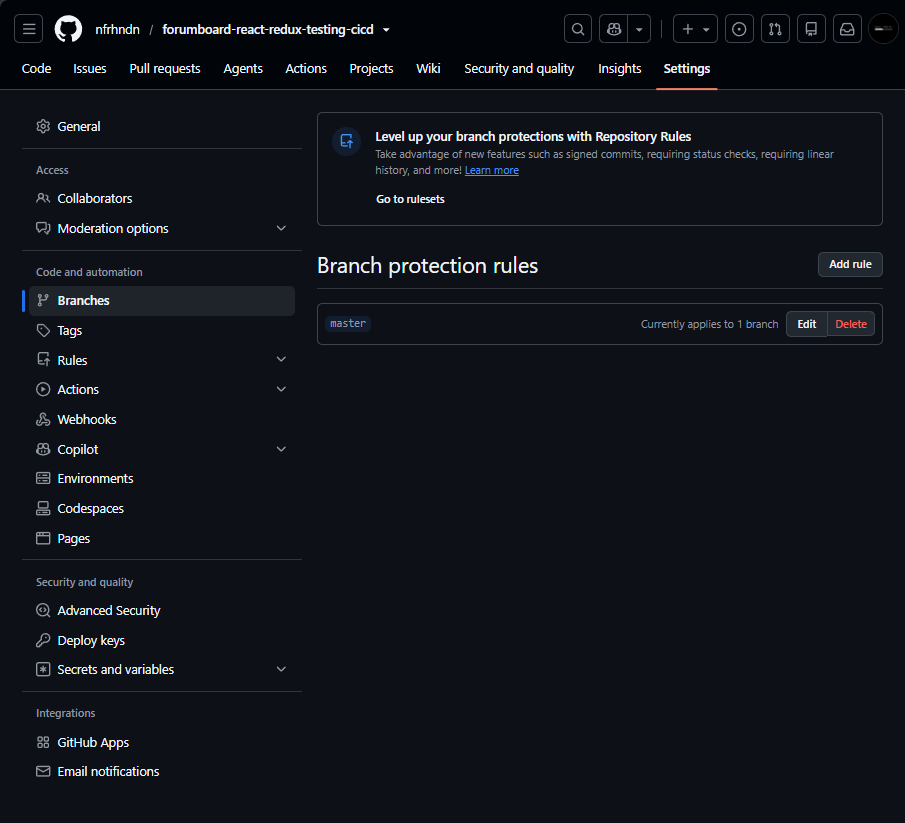
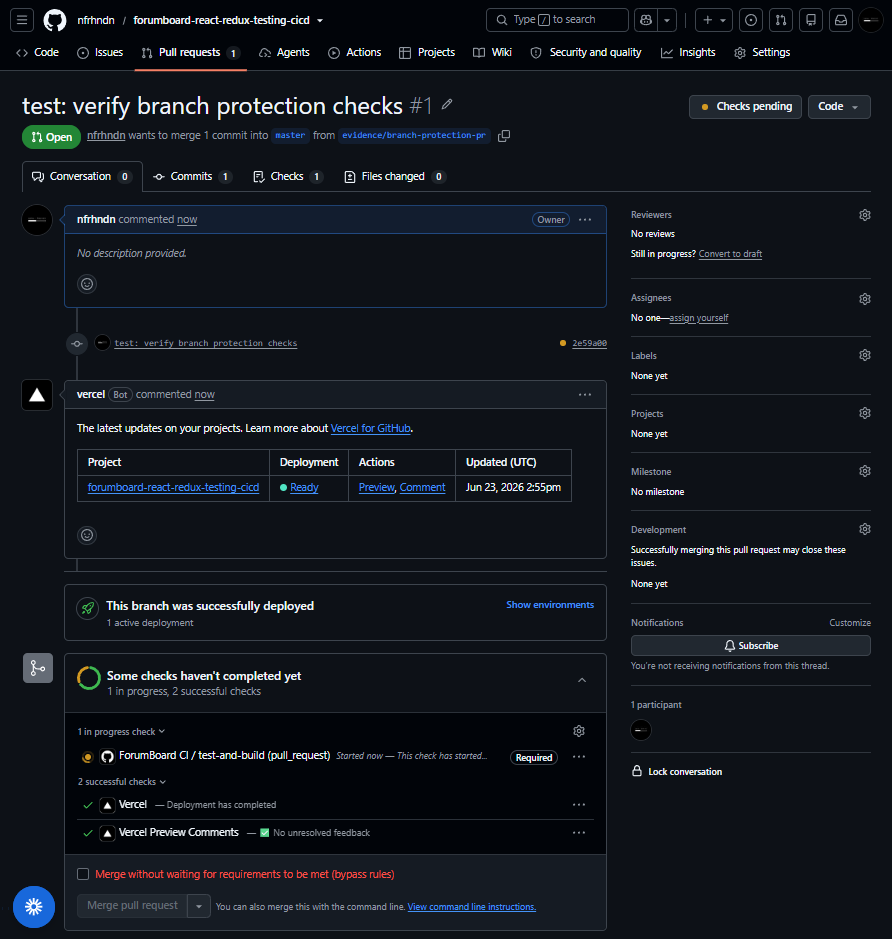
docs: update reviewer evidence notes

diff --git a/README.md b/README.md
@@ -31,6 +31,10 @@ Project ini menyediakan pengujian otomatis untuk memenuhi kriteria submission fi
 
 - Reducer test untuk state thread dan detail thread.
 - Thunk test per modul state dengan mock Dicoding Forum API.
+  - `src/states/authUser/action.test.js`
+  - `src/states/shared/action.test.js`
+  - `src/states/threads/action.test.js`
+  - `src/states/threadDetail/action.test.js`
 - React component test menggunakan React Testing Library.
 - End-to-end login flow menggunakan Cypress.
 - Storybook stories untuk komponen forum utama.
@@ -121,7 +125,8 @@ Folder `screenshot` berisi bukti yang diminta pada submission:
 
 - `1_ci_check_error.png`
 - `2_ci_check_pass.png`
-- `3_branch_protection.png`
+- `3_branch_protection.png`: bukti branch protection pada Pull Request ketika required check belum selesai.
+- `4_pr_checks_pass.png`: bukti tambahan Pull Request setelah required checks berhasil.
 
 Saat membuat ZIP submission, jangan sertakan folder berikut:
 